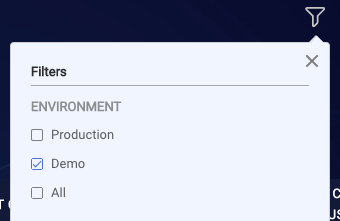
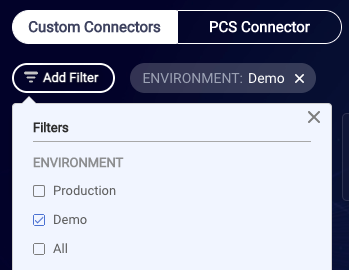
BA-6867 Update filter design in Bots Status

diff --git a/pages/Documents/ConversationalAI/BotsStatus/managing-custom-bots.md b/pages/Documents/ConversationalAI/BotsStatus/managing-custom-bots.md
@@ -14,7 +14,7 @@ In Bots Status, you use the **Custom Connectors** tab of the **Bot Agents** page
 
 <img class="fancyimage" style="width:800px" src="img/ConvoBuilder/botsStatus_custom_connectors.png">
 
-Use the filters in the upper-right corner to display the desired agents.
+Use the filter controls in the upper-left corner to display the desired agents.
 
 The metrics displayed at the top of the page are affected by the **Environment** filter and no others.
 
